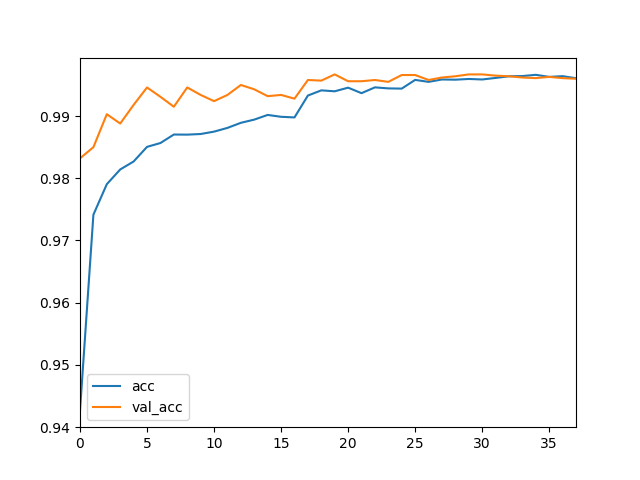
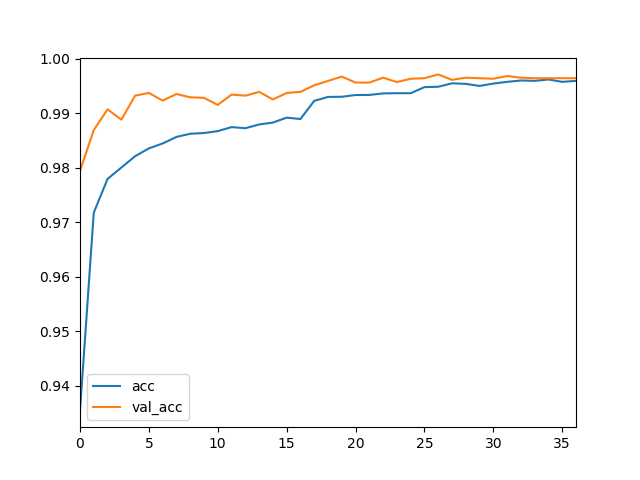
MNISTを小さくした

diff --git a/keras_exp/mnist.py b/keras_exp/mnist.py
@@ -13,7 +13,6 @@ DATA_AUGMENTATION = True
 
 def create_model(nb_classes: int, input_shape: tuple):
     import keras
-    import keras.backend as K
 
     def conv(x, *args, **kargs):
         x = keras.layers.BatchNormalization()(x)
@@ -21,33 +20,20 @@ def create_model(nb_classes: int, input_shape: tuple):
         x = keras.layers.Conv2D(*args, **kargs, use_bias=False)(x)
         return x
 
-    def lc(x, *args, **kargs):
-        x = keras.layers.BatchNormalization()(x)
-        x = keras.layers.ELU()(x)
-        x = keras.layers.local.LocallyConnected2D(*args, **kargs)(x)
-        return x
-
-    def conv2(x, nb_filter):
-        x = conv(x, nb_filter // 2, (1, 1))
-        x = conv(x, nb_filter, (3, 3), padding='same')
-        return x
-
-    def block(x, nb_filter):
-        x = conv2(x, nb_filter)
-        return x
-
     def ds(x):
         x = keras.layers.MaxPooling2D()(x)
         return x
 
     x = inp = keras.layers.Input(input_shape)
-    x = keras.layers.Conv2D(64, (3, 3), padding='same')(x)
-    x = block(x, 128)
+    x = keras.layers.Conv2D(32, (3, 3), padding='same')(x)
+    x = conv(x, 32, (3, 3), padding='same')
+    x = conv(x, 32, (3, 3), padding='same')
     x = ds(x)
-    x = block(x, 128)
+    x = conv(x, 32, (3, 3), padding='same')
+    x = conv(x, 32, (3, 3), padding='same')
     x = ds(x)
-    x = conv(x, 32, (1, 1))
-    x = lc(x, 32, (3, 3))
+    x = conv(x, 32, (3, 3), padding='same')
+    x = conv(x, 32, (3, 3), padding='same')
     x = keras.layers.BatchNormalization()(x)
     x = keras.layers.ELU()(x)
     x = keras.layers.Flatten()(x)
